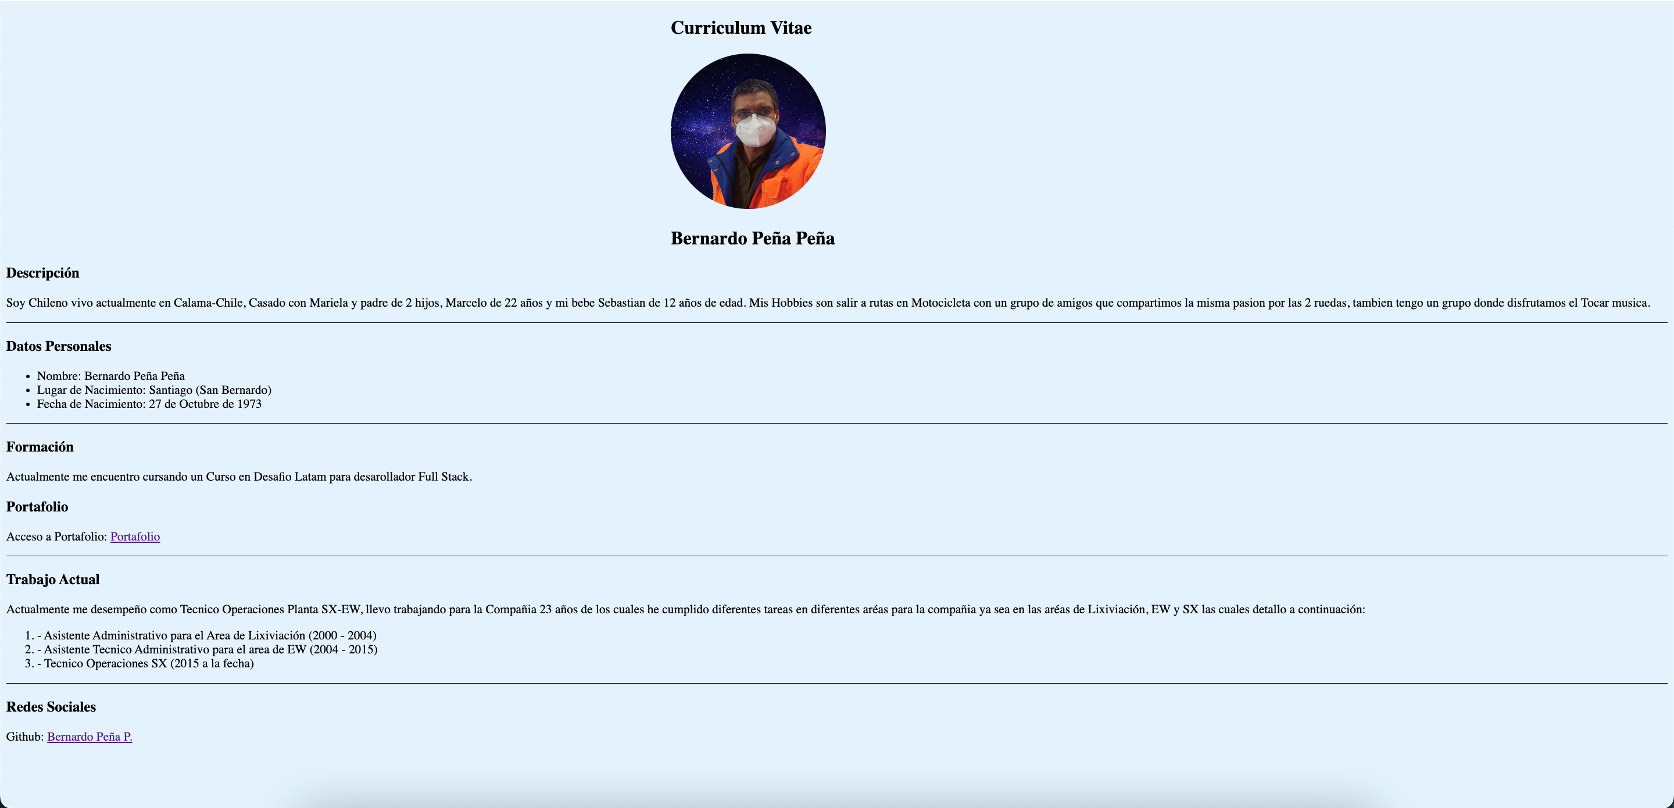
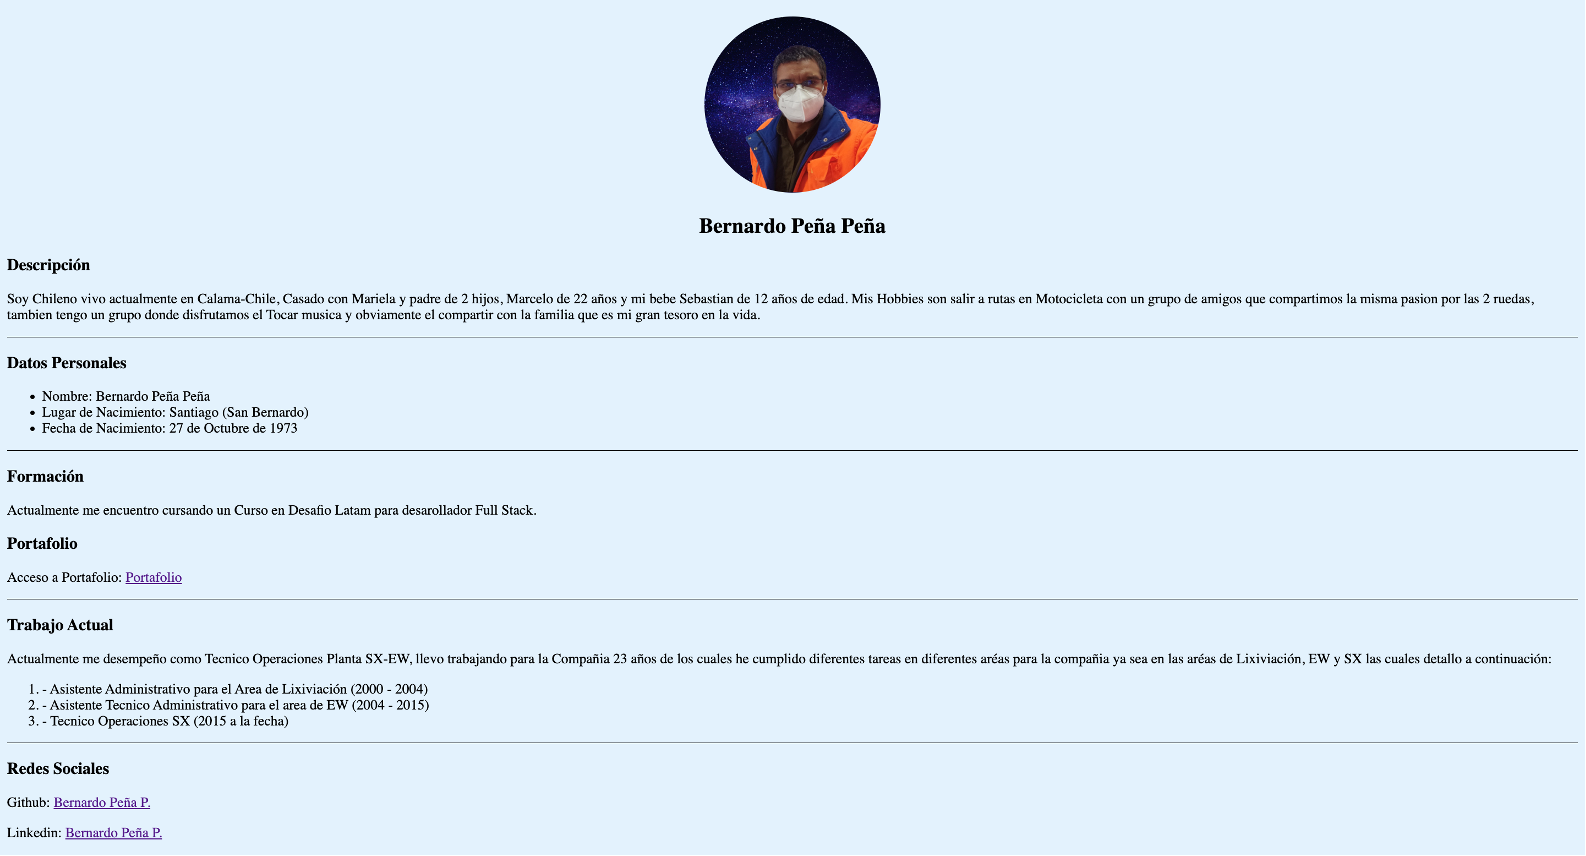
cambio foto pagina web

diff --git a/index.html b/index.html
@@ -9,7 +9,7 @@
 </head>
 
 <body style="background-color: #E3F2FD;">
-    <section >
+    <section>
         <div style="text-align: center;">
             <h1>Curriculum Vitae </h1>
             <img src="assets/img/Foto Perfil sin Fondo.png" alt="Foto Curriculum" width="200px" style="border-radius: 100px;">
@@ -46,14 +46,12 @@
             <p>Acceso a Portafolio: <a href="portafolio.html">Portafolio</a/p>
             <hr size="1px" color="black" />
         </div>
-
     </section>
 
     <section>
         <div>
             <h3>Trabajo Actual</h3>
             <p>Actualmente me desempeño como Tecnico Operaciones Planta SX-EW, llevo trabajando para la Compañia 23 años de los cuales he cumplido diferentes tareas en diferentes aréas para la compañia ya sea en las aréas de Lixiviación, EW y SX las cuales detallo a continuación: </p>
-
             <ol style="list-style-type: decimal">
                 <li>- Asistente Administrativo para el Area de Lixiviación (2000 - 2004)</li>
                 <li>- Asistente Tecnico Administrativo para el area de EW (2004 - 2015)</li>
@@ -67,6 +65,7 @@
         <div>
             <h3>Redes Sociales</h3>
             <p>Github: <a href="https://github.com/bernardpena" target="_blank">Bernardo Peña P.</a/p> 
+            <p>Linkedin: <a href="https://www.linkedin.com/in/bernardo-pe%C3%B1a-66806232/" target="_blank">Bernardo Peña P.</a/p> 
         </div>
     </section>
 

diff --git a/portafolio.html b/portafolio.html
@@ -19,15 +19,15 @@
         </div>
             <table style="width:100%;background-color: white;">
                 <tr>
-                    <th width="20%;">Curriculum</th>
-                    <td><img src="assets/img/Pagina-web.png" alt="Foto Curriculum" width="80%;"></td>
+                    <td style="text-align: center;font-weight: bold;" width="20%;">Curriculum</td>
+                    <td align="center"> <img src="assets/img/Pagina-web.png" alt="Foto Curriculum" width="95%;"></td>
                 </tr>
                 <tr>
-                    <th>Proyecto 2</th>
+                    <td style="text-align: center;font-weight: bold;">Proyecto 2</td>
                     <td></td>
                 </tr>
                 <tr>
-                    <th>Proyecto 3</th>
+                    <td style="text-align: center;font-weight: bold;">Proyecto 3</td>
                     <td></td>
                 </tr>
             </table>
